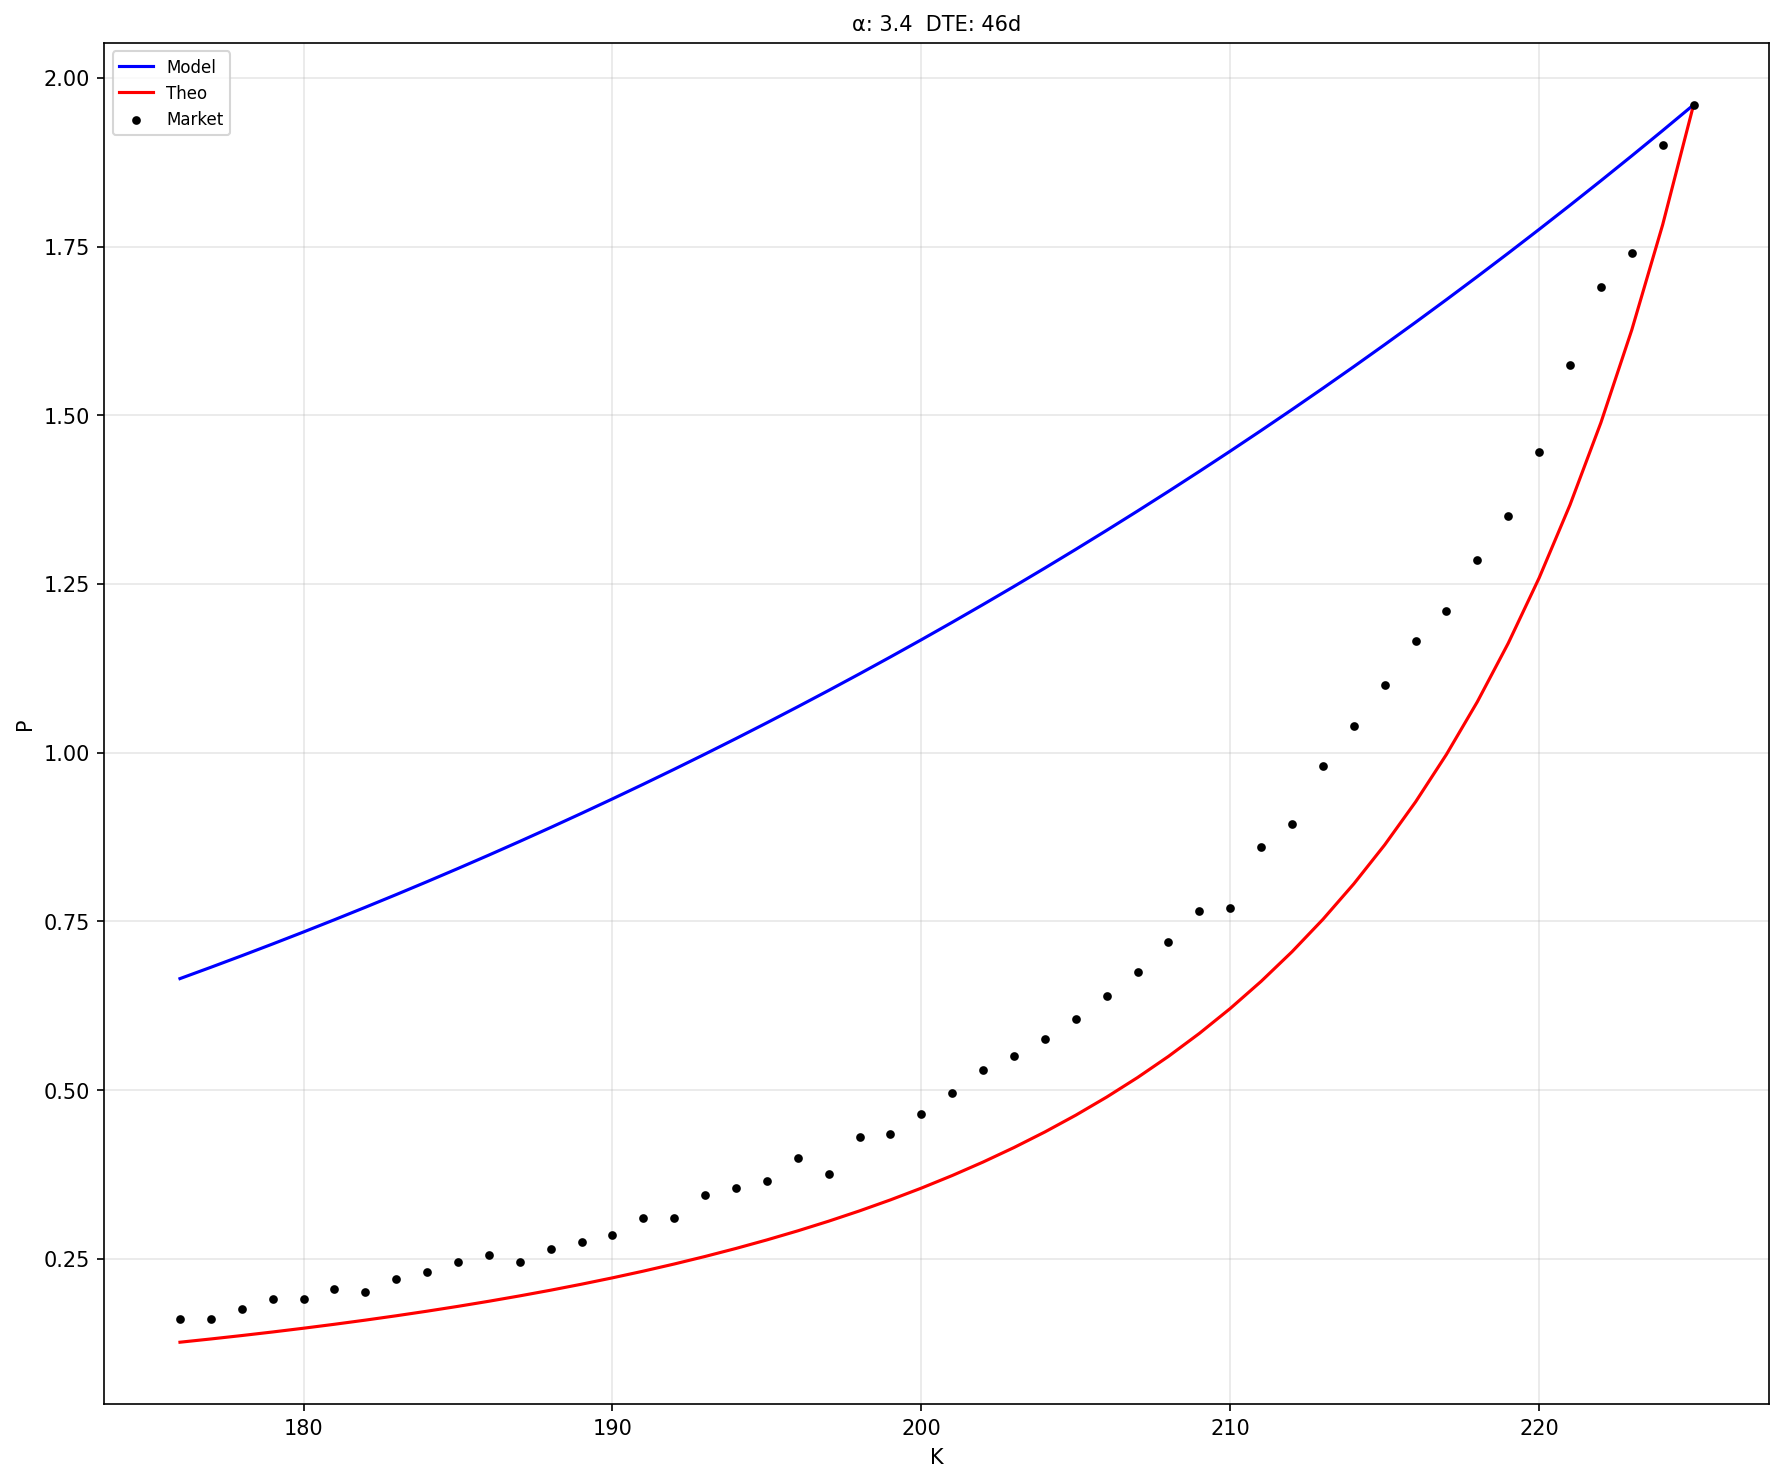
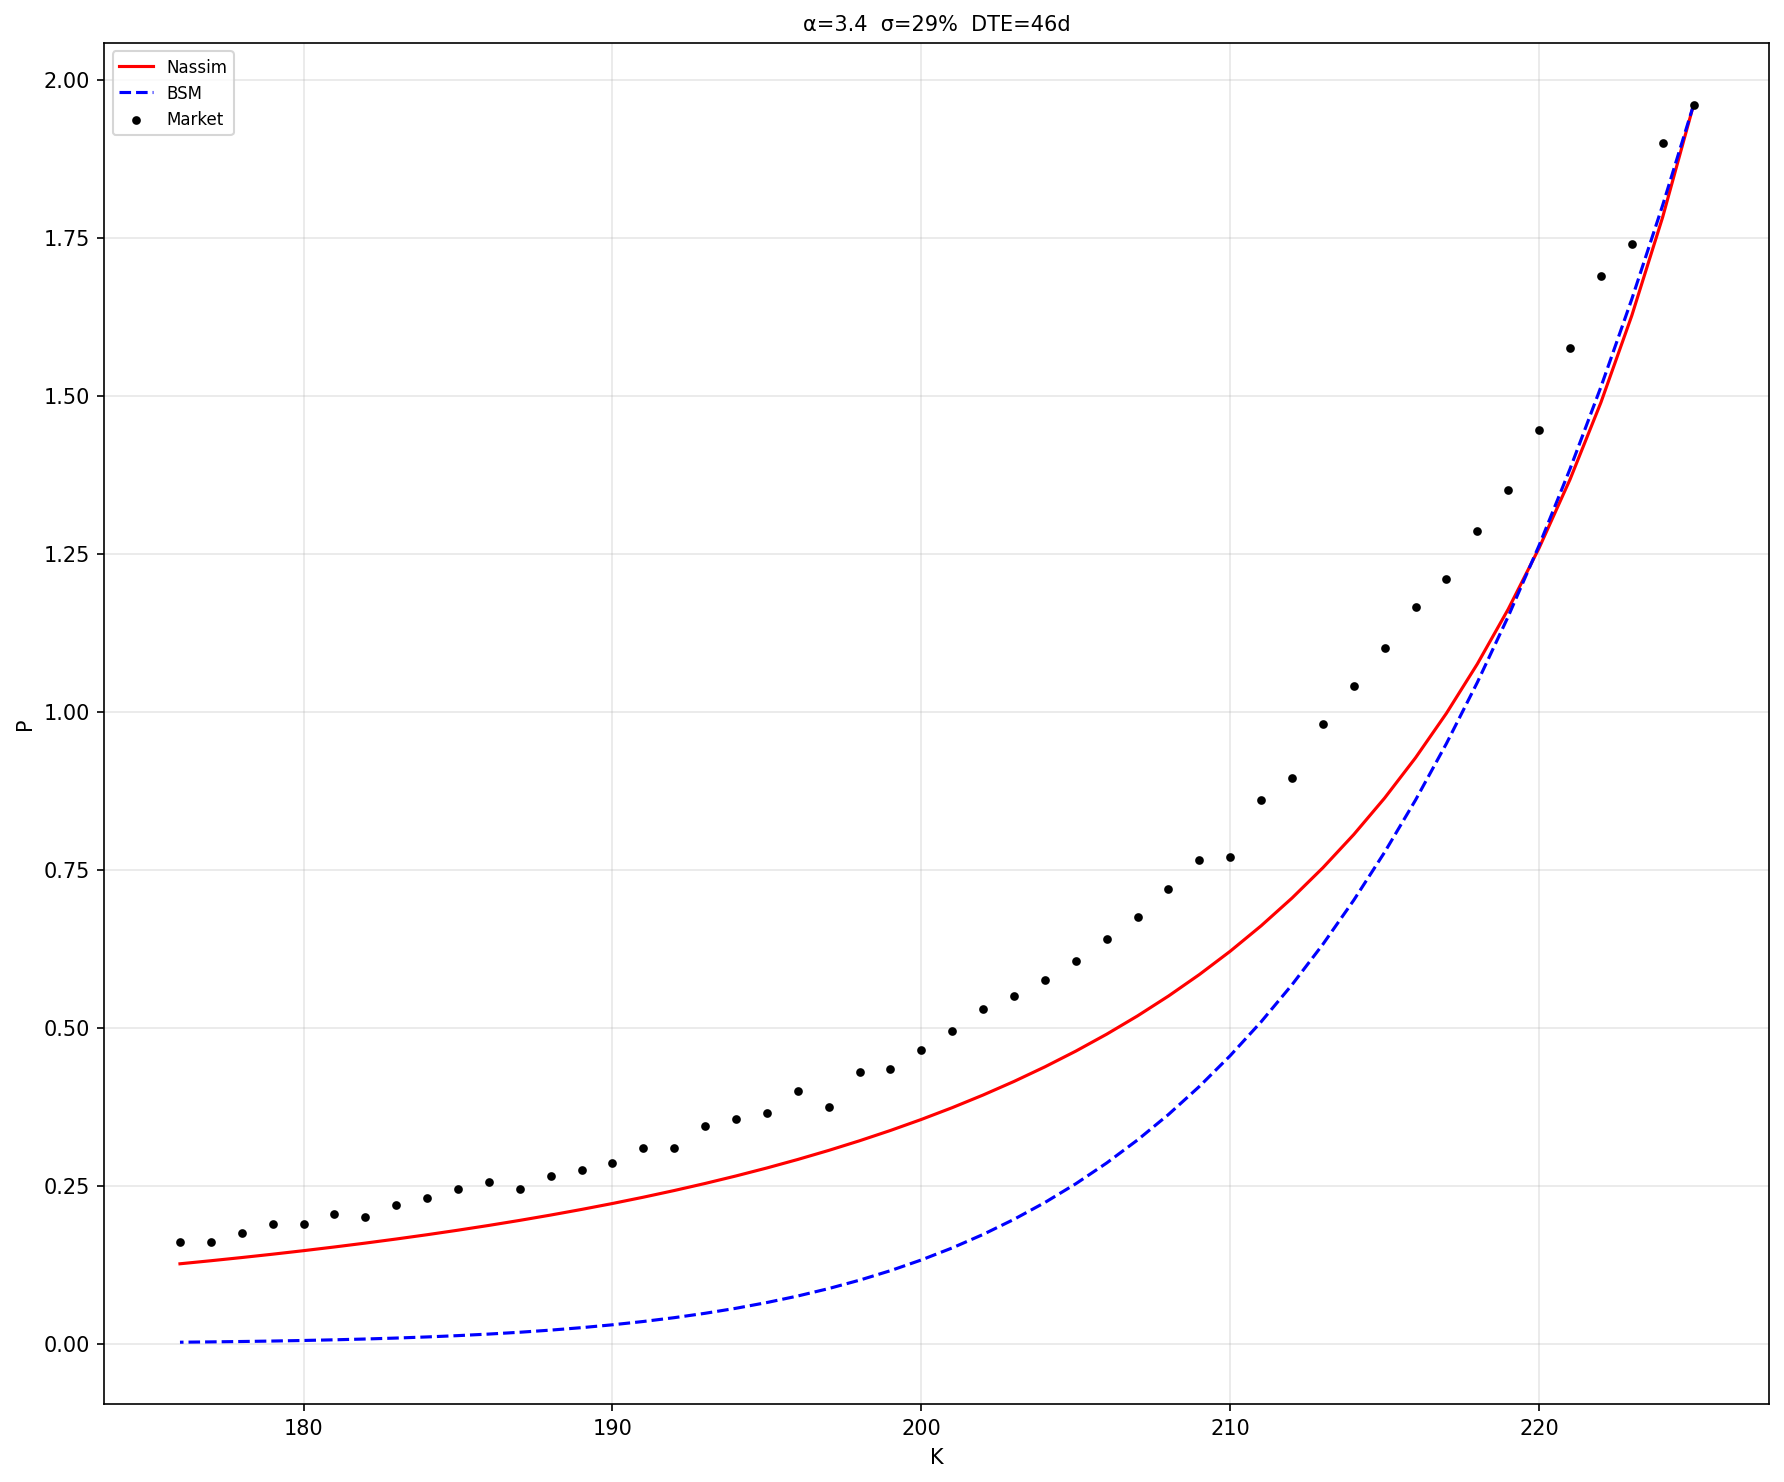
[B]layout structure for plotting

diff --git a/src/seeingservices/see_tail_pricing.py b/src/seeingservices/see_tail_pricing.py
@@ -1,9 +1,9 @@
 """
-Plot put option prices comparing market vs power-law tail pricing models.
+Plot put option prices comparing market vs power-law tail pricing model vs BSM.
 
 Uses data-view-model separation:
 - Data: Load and filter options data
-- Model: Calculate theoretical prices using power-law formulas
+- Model: Calculate theoretical prices using Nassim's power-law formula and BSM
 - View: Plot comparison figures
 
 Author: Xu.Shen<xs286@cornell.edu>
@@ -14,6 +14,7 @@ import numpy as np
 import matplotlib.pyplot as plt
 from dataclasses import dataclass
 from typing import List, Tuple
+from scipy.stats import norm
 
 
 # =============================================================================
@@ -27,6 +28,8 @@ class OptionsData:
     spot: float
     dte: int
     quote_date: str
+    tau: float
+    rate: float
 
 
 def load_puts_data(filepath: str) -> pd.DataFrame:
@@ -44,11 +47,7 @@ def filter_by_dte(df: pd.DataFrame, target_dte: int, tolerance: int = 5) -> pd.D
 
 def filter_otm_puts(df: pd.DataFrame, spot: float,
                     min_moneyness: float = 0.3, max_moneyness: float = 0.95) -> pd.DataFrame:
-    """Filter out-of-the-money puts within moneyness range.
-
-    Note: max_moneyness < 1.0 avoids singularity in Nassim formula
-    when strike is too close to spot.
-    """
+    """Filter out-of-the-money puts within moneyness range."""
     min_strike = spot * min_moneyness
     max_strike = spot * max_moneyness
     return df[(df['strike'] <= max_strike) & (df['strike'] >= min_strike)]
@@ -66,16 +65,40 @@ def get_options_slice(df: pd.DataFrame, target_dte: int,
     spot = filtered['close'].iloc[0]
     actual_dte = filtered['dte'].iloc[0]
     quote_date = filtered['Quote_Date'].iloc[0]
+    tau = filtered['tau'].iloc[0]
+    rate = filtered['rate'].iloc[0]
 
     filtered = filter_otm_puts(filtered, spot, min_moneyness, max_moneyness)
     filtered = filtered.sort_values('strike', ascending=False)
 
-    return OptionsData(df=filtered, spot=spot, dte=actual_dte, quote_date=quote_date)
+    return OptionsData(df=filtered, spot=spot, dte=actual_dte,
+                       quote_date=quote_date, tau=tau, rate=rate)
 
 
 # =============================================================================
 # MODEL LAYER
 # =============================================================================
+
+def bsm_put_price(S, K, T, r, sigma):
+    """Black-Scholes-Merton put option price.
+
+    BSM assumes log-normal returns (thin tails), which underprices
+    deep OTM options compared to fat-tailed reality.
+    """
+    if T <= 0 or sigma <= 0:
+        return max(K - S, 0)
+
+    d1 = (np.log(S / K) + (r + 0.5 * sigma**2) * T) / (sigma * np.sqrt(T))
+    d2 = d1 - sigma * np.sqrt(T)
+
+    put = K * np.exp(-r * T) * norm.cdf(-d2) - S * norm.cdf(-d1)
+    return put
+
+
+def compute_bsm_prices(strikes, spot, tau, rate, sigma):
+    """Compute BSM put prices for all strikes using constant volatility."""
+    return [bsm_put_price(spot, K, tau, rate, sigma) for K in strikes]
+
 
 def nassim_put_formula(K1, K2, P_K1, alpha, spot):
     """Nassim's put pricing formula based on power-law tail."""
@@ -84,33 +107,32 @@ def nassim_put_formula(K1, K2, P_K1, alpha, spot):
     return P_K1 * (nom / denom)
 
 
-def raphael_put(K1, K2, P_K1, alpha):
-    """Raphael's simplified put pricing formula."""
-    return P_K1 * (K2/K1) ** (alpha+1)
-
-
-def nassim_price_put(df, alpha, row, min_price):
-    """Compute put prices using both Nassim and Raphael formulas."""
+def compute_nassim_prices(df, alpha, row, min_price):
+    """Compute put prices using Nassim's power-law formula."""
     df = df[df[row] >= min_price]
     strikes = df.strike.to_list()
     df = df.sort_values(by="strike", ascending=False)
     strikes = sorted(strikes, reverse=True)
+
     K_anchor = max(strikes)
     anchor = df[df["strike"] == K_anchor][row].iloc[0]
-
-    nassim = [anchor]
-    raphael = [anchor]
     spot = df.close.iloc[0]
 
+    prices = [anchor]
     for i in range(1, len(strikes)):
         K_curr = strikes[i]
         K_prev = strikes[i-1]
+        prices.append(nassim_put_formula(K_prev, K_curr, prices[-1], alpha, spot))
 
-        # Each formula uses its OWN previous price
-        nassim.append(nassim_put_formula(K_prev, K_curr, nassim[-1], alpha, spot))
-        raphael.append(raphael_put(K_prev, K_curr, raphael[-1], alpha))
+    return strikes, prices
 
-    return strikes, raphael, nassim
+
+def get_anchor_iv(df, price_col, min_price):
+    """Get implied volatility from the anchor (highest) strike."""
+    df_filtered = df[df[price_col] >= min_price].sort_values('strike', ascending=False)
+    iv_ask = df_filtered['IV_ask'].iloc[0]
+    iv_bid = df_filtered['IV_bid'].iloc[0]
+    return (iv_ask + iv_bid) / 2 if iv_bid > 0 else iv_ask
 
 
 @dataclass
@@ -119,36 +141,41 @@ class PricingResult:
     strikes: List[float]
     market_prices: List[float]
     nassim_prices: List[float]
-    raphael_prices: List[float]
+    bsm_prices: List[float]
     alpha: float
+    sigma: float
     spot: float
 
 
 def compute_model_prices(options: OptionsData, alpha: float,
                          price_col: str = 'mid', min_price: float = 0.01) -> PricingResult:
-    """Compute theoretical prices using power-law models."""
+    """Compute theoretical prices using Nassim and BSM models."""
     df = options.df.copy()
 
-    strikes, raphael, nassim = nassim_price_put(df, alpha, row=price_col, min_price=min_price)
+    strikes, nassim_prices = compute_nassim_prices(df, alpha, row=price_col, min_price=min_price)
 
     market_df = df[df[price_col] >= min_price].sort_values('strike', ascending=False)
     market_prices = market_df[price_col].tolist()
 
+    sigma = get_anchor_iv(df, price_col, min_price)
+    bsm_prices = compute_bsm_prices(strikes, options.spot, options.tau, options.rate, sigma)
+
     return PricingResult(
         strikes=strikes,
         market_prices=market_prices,
-        nassim_prices=nassim,
-        raphael_prices=raphael,
+        nassim_prices=nassim_prices,
+        bsm_prices=bsm_prices,
         alpha=alpha,
+        sigma=sigma,
         spot=options.spot
     )
 
 
-def objective_puts_nassim(alpha, dataframe, row, min_price):
+def objective_function(alpha, dataframe, row, min_price):
     """Objective function for alpha optimization."""
-    _, _, nassim = nassim_price_put(dataframe, alpha, row=row, min_price=min_price)
-    market_prices = dataframe[dataframe[row] >= min_price].sort_values("strike")[row].to_list()
-    return np.sum((np.array(nassim) - np.array(market_prices))**2)
+    _, nassim_prices = compute_nassim_prices(dataframe, alpha, row=row, min_price=min_price)
+    market_prices = dataframe[dataframe[row] >= min_price].sort_values("strike", ascending=False)[row].tolist()
+    return np.sum((np.array(nassim_prices) - np.array(market_prices))**2)
 
 
 def find_best_alpha(options: OptionsData, price_col: str = 'mid',
@@ -158,7 +185,7 @@ def find_best_alpha(options: OptionsData, price_col: str = 'mid',
 
     df = options.df.copy()
     result = minimize_scalar(
-        objective_puts_nassim,
+        objective_function,
         bounds=alpha_range,
         args=(df, price_col, min_price),
         method='bounded'
@@ -172,16 +199,16 @@ def find_best_alpha(options: OptionsData, price_col: str = 'mid',
 
 def plot_single_comparison(ax: plt.Axes, result: PricingResult,
                            dte: int, show_legend: bool = True) -> None:
-    """Plot single comparison of market vs model prices."""
+    """Plot comparison of market vs Nassim vs BSM prices."""
     strikes = result.strikes
 
-    ax.plot(strikes, result.raphael_prices, 'b-', linewidth=1.5, label='Model')
-    ax.plot(strikes, result.nassim_prices, 'r-', linewidth=1.5, label='Theo')
+    ax.plot(strikes, result.nassim_prices, 'r-', linewidth=1.5, label='Nassim')
+    ax.plot(strikes, result.bsm_prices, 'b--', linewidth=1.5, label='BSM')
     ax.scatter(strikes, result.market_prices, c='black', s=10, label='Market', zorder=5)
 
     ax.set_xlabel('K')
     ax.set_ylabel('P')
-    ax.set_title(f'α: {result.alpha:.1f}  DTE: {dte}d', fontsize=10)
+    ax.set_title(f'α={result.alpha:.1f}  σ={result.sigma:.0%}  DTE={dte}d', fontsize=10)
     ax.grid(True, alpha=0.3)
 
     if show_legend:
@@ -248,8 +275,8 @@ def main():
     ALPHA = 3.4
     DATA_PATH = 'data/df_puts_2018_filtered.csv'
     DTE_VALUES = [15, 30, 46, 60, 90]
-    MIN_MONEYNESS = 0.70  # 70% of spot (deep OTM, similar to reference)
-    MAX_MONEYNESS = 0.90  # 90% of spot (avoid singularity near ATM)
+    MIN_MONEYNESS = 0.70
+    MAX_MONEYNESS = 0.90
 
     print(f"Loading data from {DATA_PATH}")
     df = load_puts_data(DATA_PATH)
